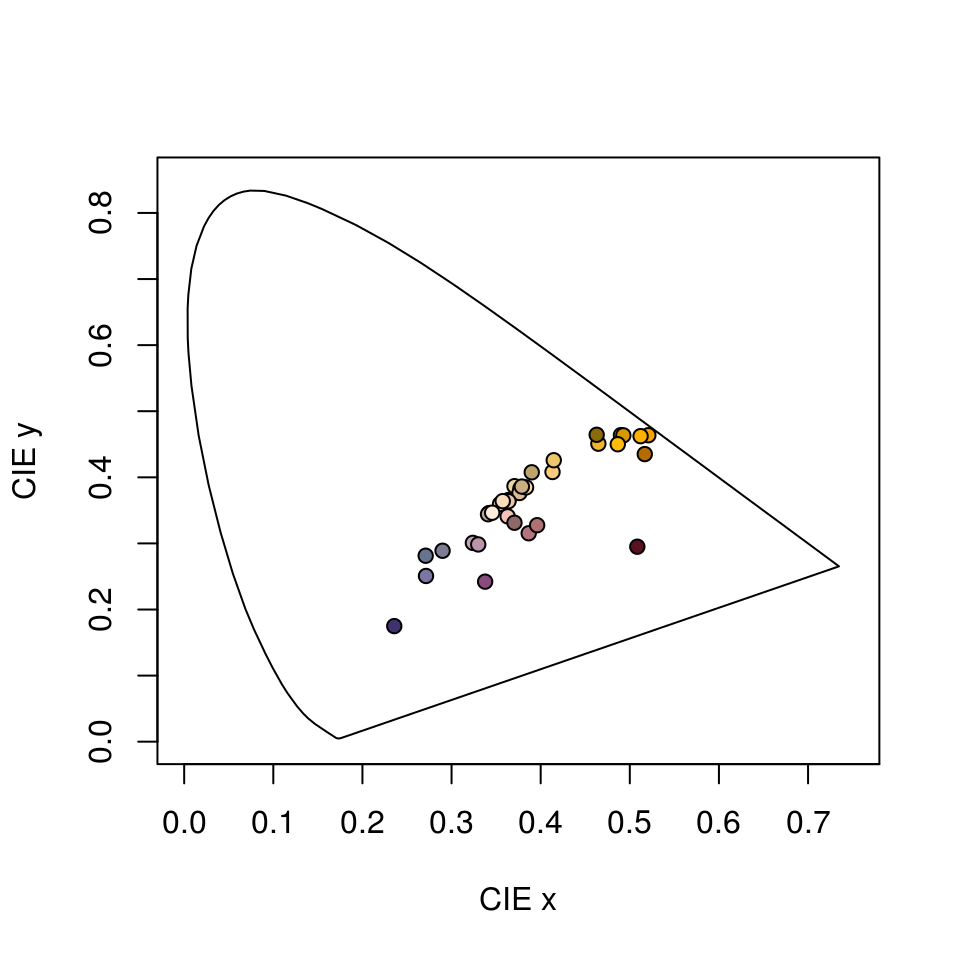
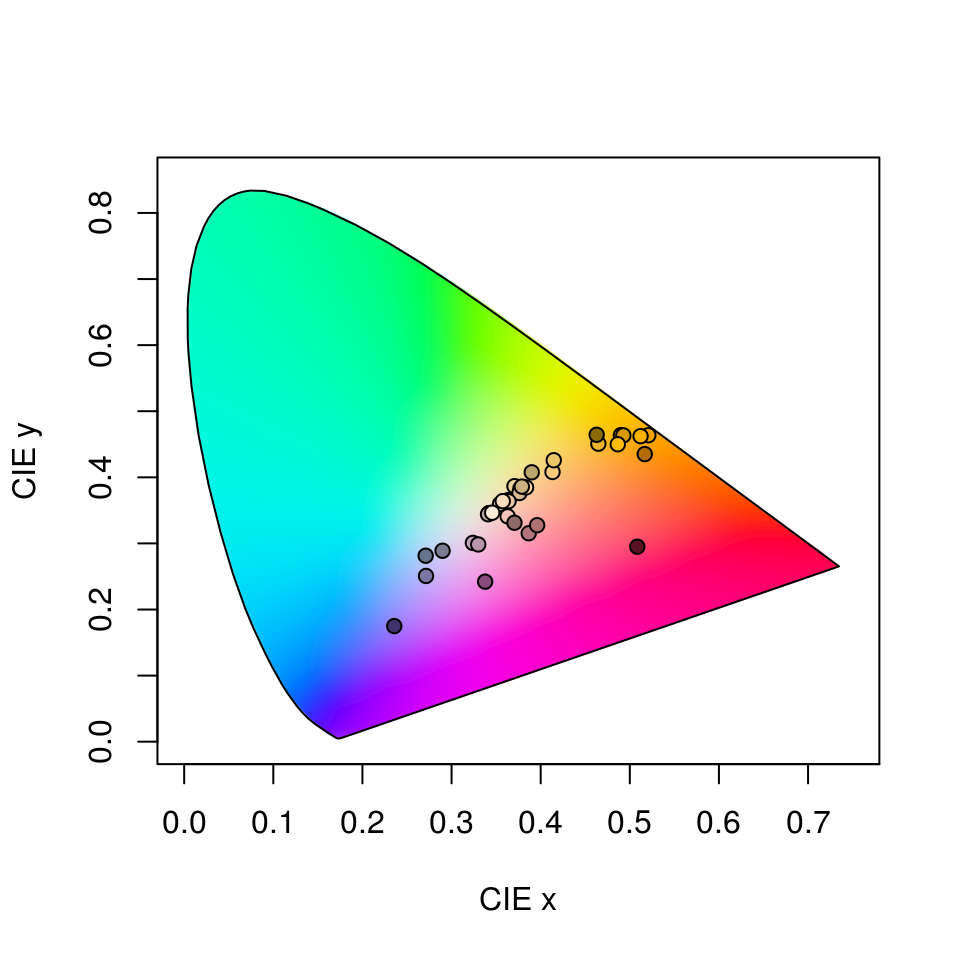
Built site for pavo: 2.2.0@1d40cd2

Changed region(s): [[0.1875, 0.1875, 0.875, 0.7812]]

diff --git a/reference/cieplot.html b/reference/cieplot.html
@@ -152,7 +152,7 @@
 
     <pre class="usage"><span class='fu'>cieplot</span>(<span class='no'>ciedata</span>, <span class='kw'>mono</span> <span class='kw'>=</span> <span class='fl'>TRUE</span>, <span class='kw'>out.lwd</span> <span class='kw'>=</span> <span class='kw'>NULL</span>, <span class='kw'>out.lcol</span> <span class='kw'>=</span> <span class='st'>"black"</span>,
   <span class='kw'>out.lty</span> <span class='kw'>=</span> <span class='fl'>1</span>, <span class='kw'>theta</span> <span class='kw'>=</span> <span class='fl'>45</span>, <span class='kw'>phi</span> <span class='kw'>=</span> <span class='fl'>10</span>, <span class='kw'>r</span> <span class='kw'>=</span> <span class='fl'>1e+06</span>, <span class='kw'>zoom</span> <span class='kw'>=</span> <span class='fl'>1</span>,
-  <span class='kw'>box</span> <span class='kw'>=</span> <span class='fl'>FALSE</span>, <span class='kw'>margin</span> <span class='kw'>=</span> <span class='fu'><a href='https://rdrr.io/r/base/c.html'>c</a></span>(<span class='fl'>0</span>, <span class='fl'>0</span>, <span class='fl'>0</span>, <span class='fl'>0</span>), <span class='no'>...</span>)</pre>
+  <span class='kw'>box</span> <span class='kw'>=</span> <span class='fl'>FALSE</span>, <span class='kw'>margin</span> <span class='kw'>=</span> <span class='fu'><a href='https://rdrr.io/r/base/c.html'>c</a></span>(<span class='fl'>0</span>, <span class='fl'>0</span>, <span class='fl'>0</span>, <span class='fl'>0</span>), <span class='kw'>ciebg</span> <span class='kw'>=</span> <span class='fl'>TRUE</span>, <span class='no'>...</span>)</pre>
     
     <h2 class="hasAnchor" id="arguments"><a class="anchor" href="#arguments"></a>Arguments</h2>
     <table class="ref-arguments">
@@ -209,6 +209,11 @@ when <code>space = "cielab"</code>.</p></td>
       <th>margin</th>
       <td><p>vector of four numbers specifying drawing margins for CIELAB plot
 (defaults to c(0,0,0,0))</p></td>
+    </tr>
+    <tr>
+      <th>ciebg</th>
+      <td><p>should the colour background be plotted for CIEXYZ plot?
+(defaults to <code>TRUE</code>)</p></td>
     </tr>
     <tr>
       <th>...</th>

diff --git a/news/index.html b/news/index.html
@@ -144,6 +144,14 @@
 <h1 class="page-header">
 <a href="#pavo-2-3-0" class="anchor"></a>pavo 2.3.0<small> Unreleased </small>
 </h1>
+<div id="new-features" class="section level2">
+<h2 class="hasAnchor">
+<a href="#new-features" class="anchor"></a>NEW FEATURES</h2>
+<ul>
+<li>
+<code><a href="../reference/cieplot.html">cieplot()</a></code> (and therefore <code><a href="../reference/plot.colspace.html">plot.colspace()</a></code> for CIEXYZ model) now adds the background of the CIEXYZ colour space by default. This can be turned off by switching the <code>ciebg</code> argument to <code>FALSE</code>.</li>
+</ul>
+</div>
 <div id="minor-features-and-bug-fixes" class="section level2">
 <h2 class="hasAnchor">
 <a href="#minor-features-and-bug-fixes" class="anchor"></a>MINOR FEATURES AND BUG FIXES</h2>
@@ -240,9 +248,9 @@
 <h1 class="page-header">
 <a href="#pavo-2-0-0" class="anchor"></a>pavo 2.0.0<small> 2018-09-22 </small>
 </h1>
-<div id="new-features" class="section level2">
+<div id="new-features-1" class="section level2">
 <h2 class="hasAnchor">
-<a href="#new-features" class="anchor"></a>NEW FEATURES</h2>
+<a href="#new-features-1" class="anchor"></a>NEW FEATURES</h2>
 <ul>
 <li>image-based workflow for the combined analysis of colour and pattern geometry</li>
 <li>added the visual systems of the (trichromatic) jumping spider <em>Habronattus pyrrithrix</em> and the (trichromatic) triggerfish <em>Rhinecanthus aculeatus</em>
@@ -268,9 +276,9 @@
 <h1 class="page-header">
 <a href="#pavo-1-4-0" class="anchor"></a>pavo 1.4.0<small> 2018-07-11 </small>
 </h1>
-<div id="new-features-1" class="section level2">
+<div id="new-features-2" class="section level2">
 <h2 class="hasAnchor">
-<a href="#new-features-1" class="anchor"></a>NEW FEATURES</h2>
+<a href="#new-features-2" class="anchor"></a>NEW FEATURES</h2>
 <ul>
 <li>
 <code><a href="../reference/getspec.html">getspec()</a></code> can now read OceanOptics <code>.ProcSpec</code> files</li>
